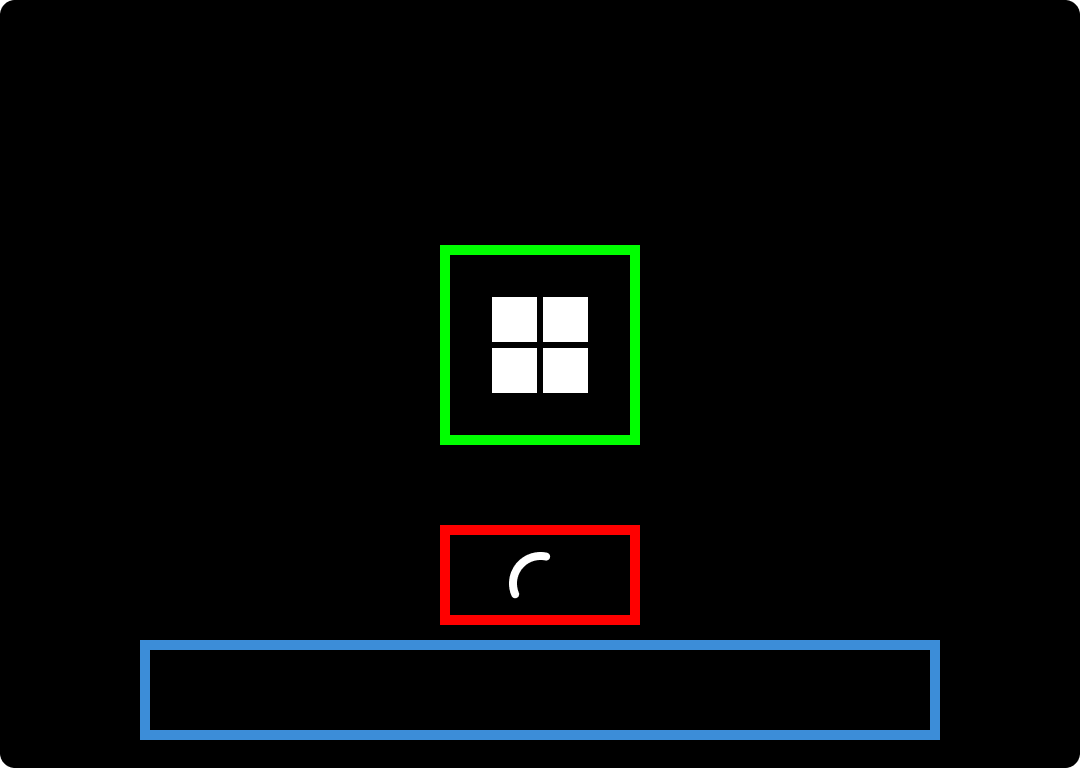
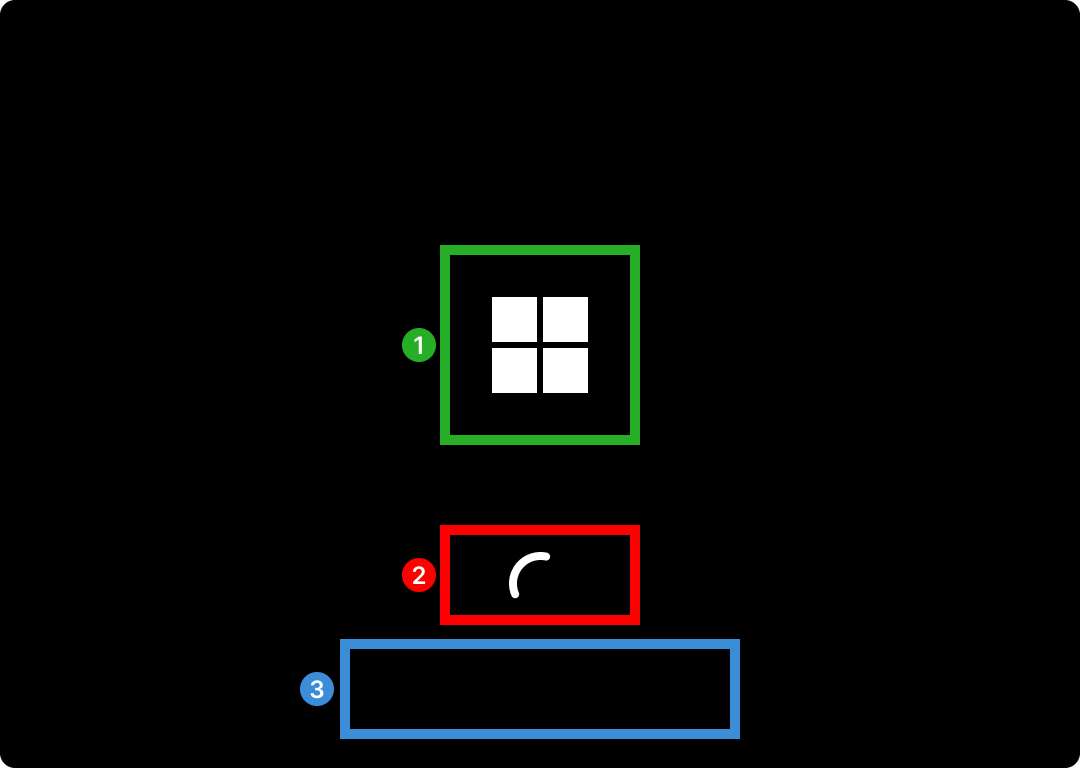
updates

diff --git a/windows/configuration/unbranded-boot/index.md b/windows/configuration/unbranded-boot/index.md
@@ -146,7 +146,11 @@ If Windows is already installed, you can't apply a provisioning package to confi
 
 ---
 
-In the following image, the BootLogo is outlined in green, the BootStatusIndicator is outlined in red, and the BootStatusMessage is outlined in blue.
+In the following image:
+
+1. `BootLogo` is outlined in green, the
+1. `BootStatusIndicator` is outlined in red
+1. `BootStatusMessage` is outlined in blue
 
 :::image type="content" source="images/boot.png" alt-text="Screenshot of the boot screen showing the areas that can be configured with Unbranded Boot. ":::
 
